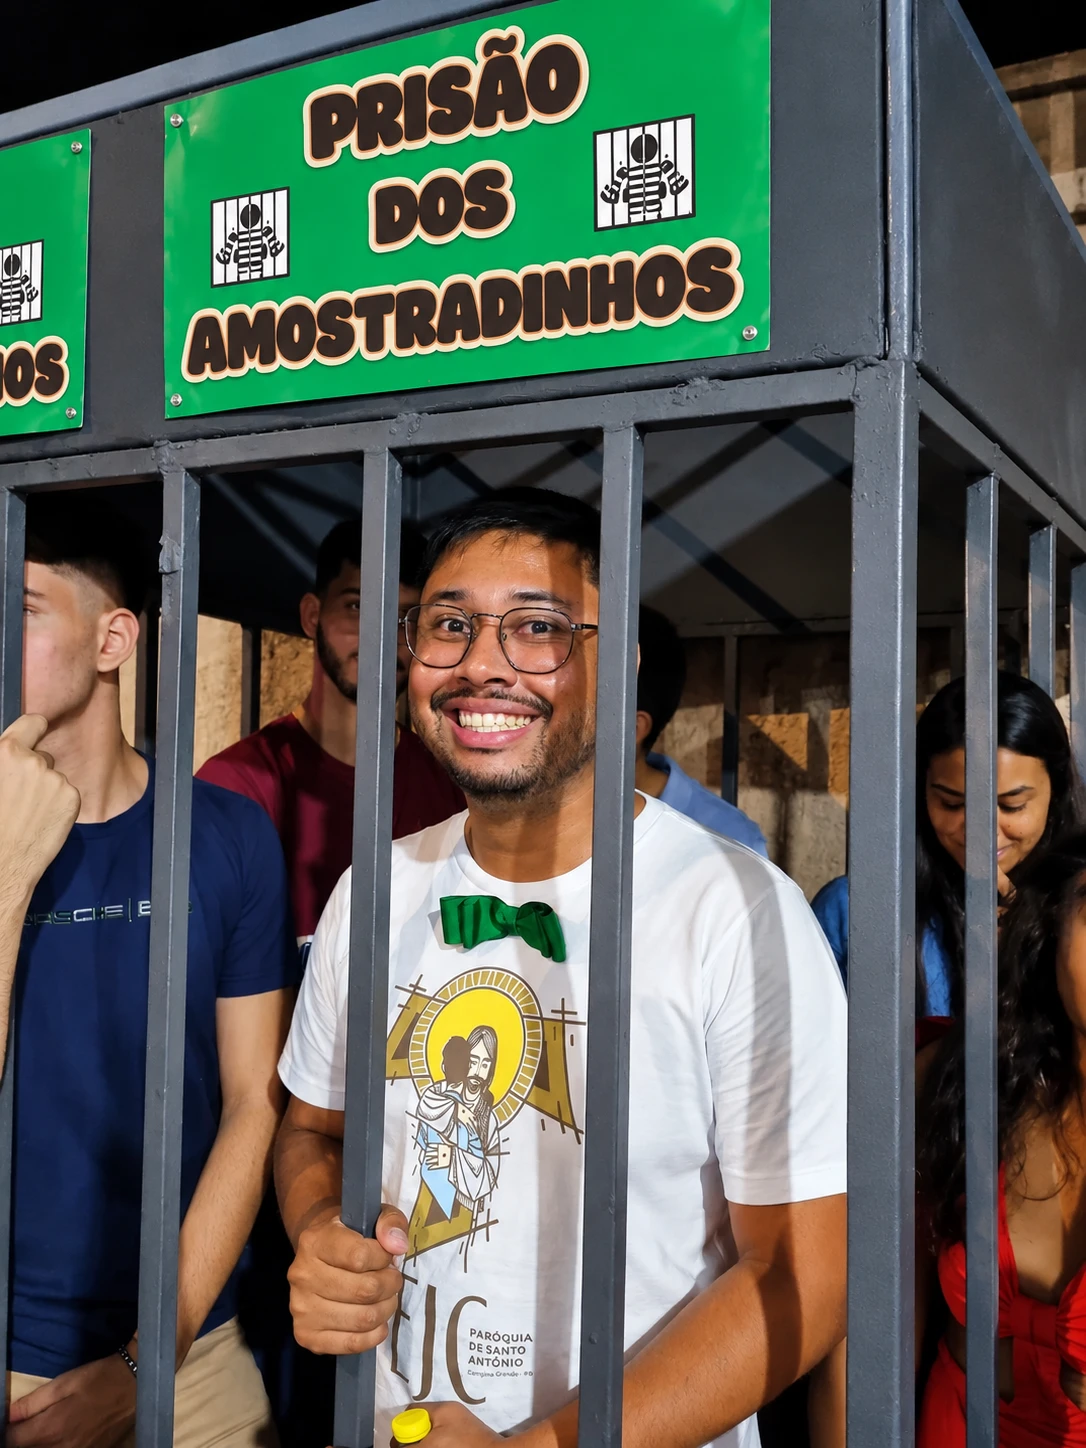
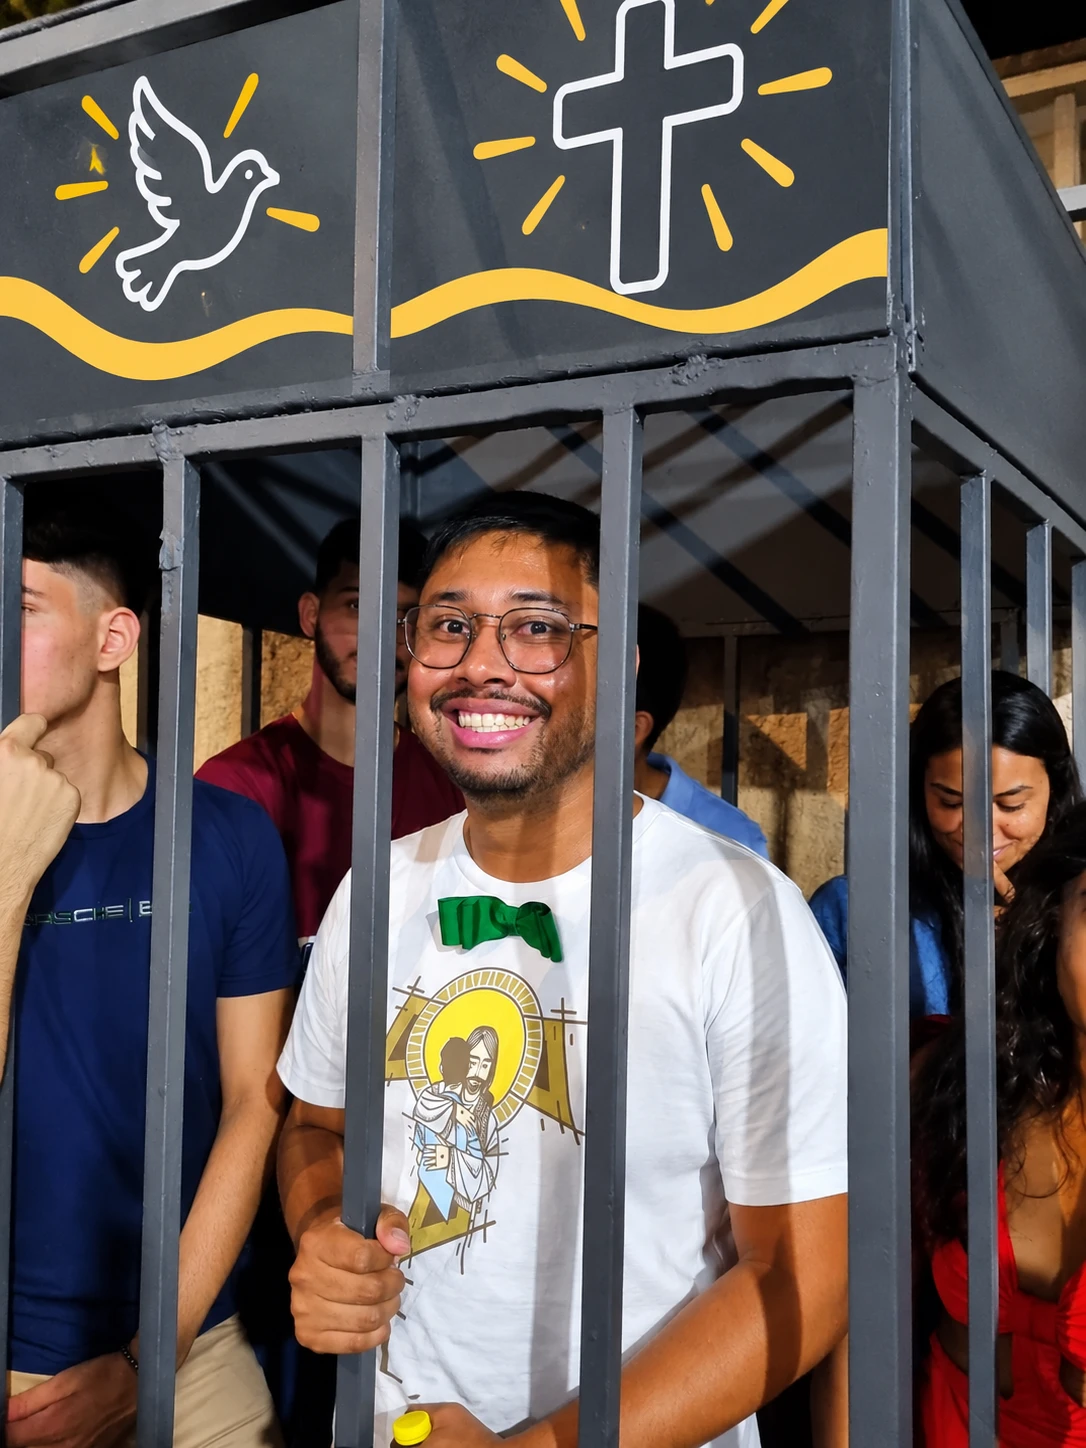
Novas fotos da Prisao, Prisao do Padre e Prisao de Coordenador
Fotos com a placa nova (pomba e cruz). Prisao do Padre passa a usar
prisao-padre.webp; remove prisao.webp, que nao era mais usada.

diff --git a/db.js b/db.js
@@ -104,7 +104,7 @@ const PRODUTOS_SEED = [
   // ----- Prisao dos Amostradinhos -----
   { id: 20, categoria: 'prisao',    nome: 'Prisão',                  preco: 2.00, foto: '/uploads/produtos/prisao-normal.webp',
     descricao: 'Mande prender alguém na Prisão dos Amostradinhos.' },
-  { id: 21, categoria: 'prisao',    nome: 'Prisão do Padre',         preco: 5.00, foto: '/uploads/produtos/prisao.webp',
+  { id: 21, categoria: 'prisao',    nome: 'Prisão do Padre',         preco: 5.00, foto: '/uploads/produtos/prisao-padre.webp',
     descricao: 'Mande prender um padre na Prisão dos Amostradinhos.' },
   { id: 22, categoria: 'prisao',    nome: 'Prisão de Coordenador de Equipe', preco: 5.00, foto: '/uploads/produtos/prisao-coordenador.webp',
     descricao: 'Mande prender um coordenador de equipe na Prisão dos Amostradinhos.' },
